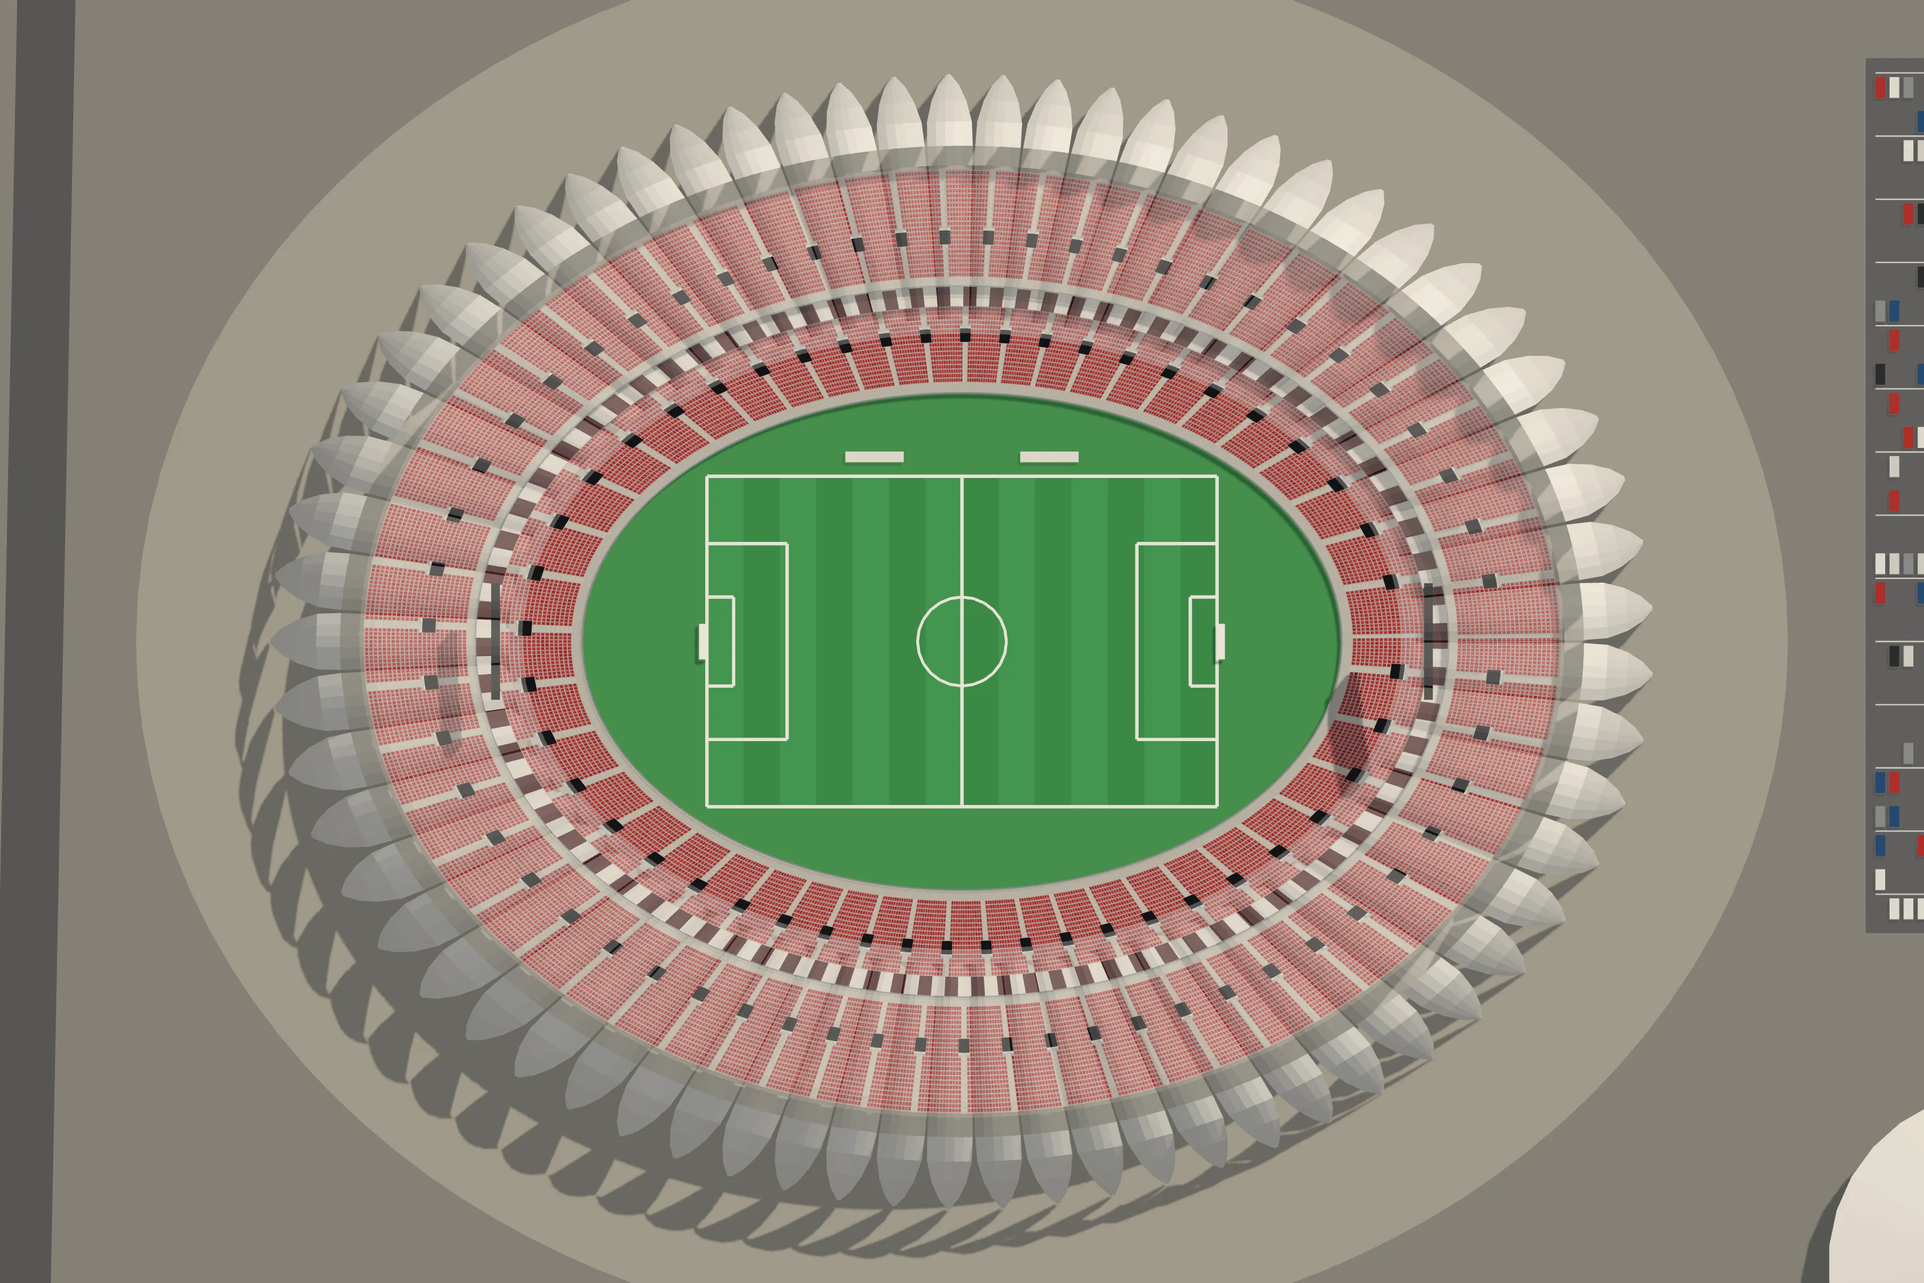
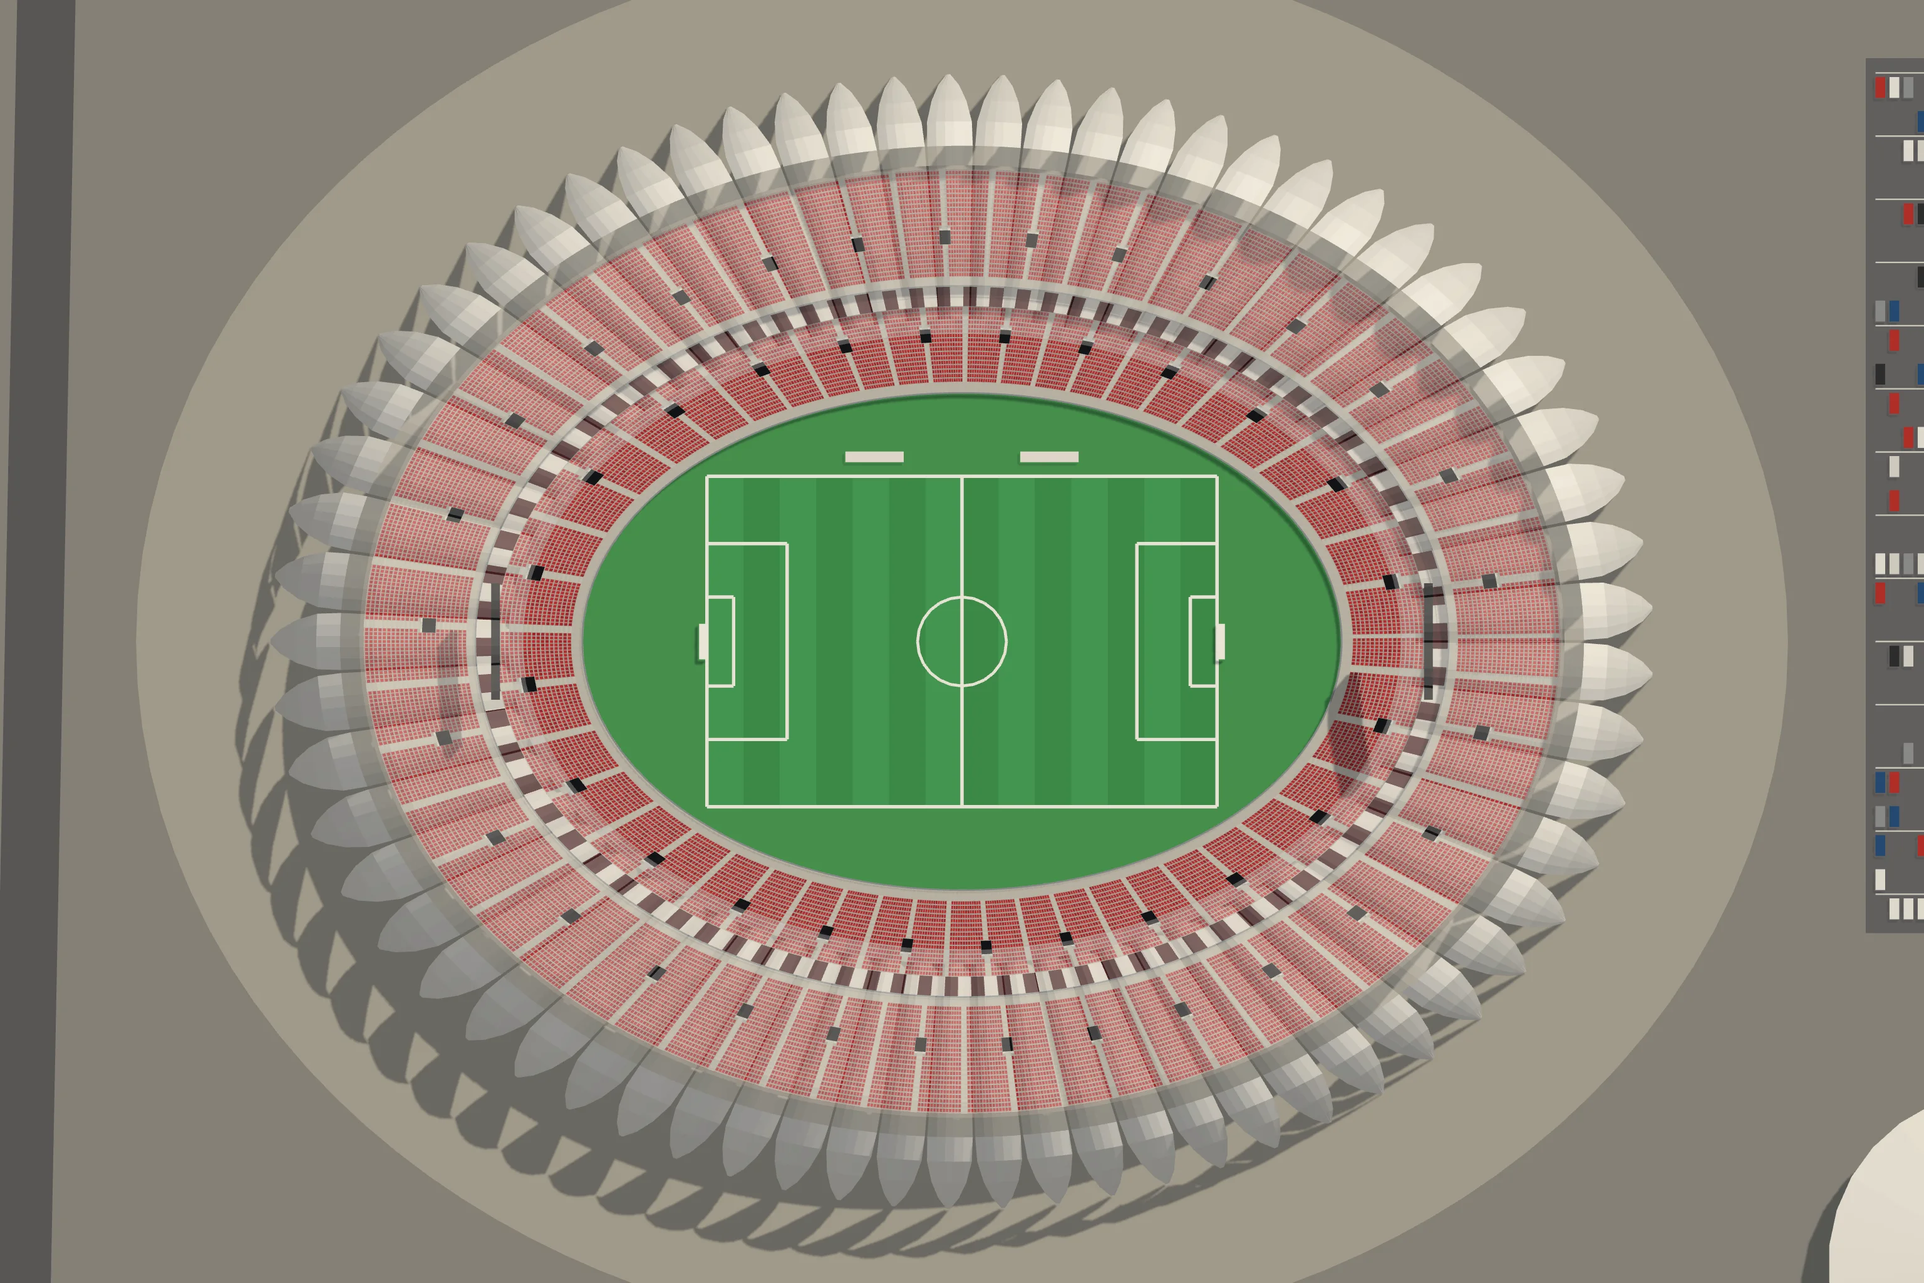
Beira-Rio: bocas de acesso a cada duas divisas de bloco
Claude-Session: https://claude.ai/code/session_019hwwMAyyP7ZAvyq6wYTetr

diff --git a/cenario3d/planta.html b/cenario3d/planta.html
@@ -289,24 +289,24 @@ button:focus-visible, input:focus-visible { outline: 2px solid var(--selecao); o
 
 <script type="module">
 import * as THREE from 'https://cdn.jsdelivr.net/npm/three@0.160.0/build/three.module.min.js';
-import { planoDaCasa, montarCasa, juntarBlocos, lugarDoDecalque, placasDoLote, segmentosDoMuro, carrosDoEstacionamento, portaoDoEstacionamento } from './js/casas3d.js?v=9e0868c0e8';
-import { montarModelos } from './js/modelos3d.js?v=9e0868c0e8';
-import { moldeDaPeca, comTransformador } from './js/props3d.js?v=9e0868c0e8';
-import { ATLAS } from './js/modelos_atlas.js?v=9e0868c0e8';
-import { Construtor, sorteio } from './js/construtor3d.js?v=9e0868c0e8';
-import { gerarProposta, MAPAS, MAPA_DO_PORTE, RUA, LONGE_DO_ESTADIO_M, cisaoDaPraca, VAO_CIDADES_M, PRAIA_A_MAIS } from './js/proposta.js?v=9e0868c0e8';
-import { montarSede, nivelQueCabe } from './js/sede3d.js?v=9e0868c0e8';
-import { onibus as onibusDetalhe, juntar as juntarDetalhe } from './js/detalhe3d.js?v=9e0868c0e8';
-import { montarLoteDeVeraneio, plantaDoLote, festaNoMundo, noMundoDoLote, cenaDaFesta, detalheDaCasaDaFesta } from './js/veraneio3d.js?v=9e0868c0e8';
-import { montarCaravana, cenaDaCaravana } from './js/caravana3d.js?v=9e0868c0e8';
-import { montarEstacao, montarTunel, montarCarro, TREM } from './js/metro3d.js?v=9e0868c0e8';
-import { montarShopping, montarDelegacia, montarPraca, montarIgreja, montarEscola, montarHospital } from './js/equip3d.js?v=9e0868c0e8';
-import { montarEquipAntigo, TIPOS_ANTIGOS } from './js/equip_antigo3d.js?v=9e0868c0e8';
-import { PECAS_PRAIA, montarPecaDaPraia } from './js/praia3d.js?v=9e0868c0e8';
-import { ESPECIES_LP, FLORA_LP, montarArvoreLowpoly, montarAsDez, facesDaArvore, especieLowpolyDe } from './js/arvores_lowpoly.js?v=9e0868c0e8';
-import { plantarMato, montarMato, LONGE_M, DENSIDADE, LADRILHO_M } from './js/mato3d.js?v=9e0868c0e8';
-import { ESTADIOS_JOGO, montarEstadioJogo, glbDoEstadio, cortarEstadio, plantaDoEstadio, modeloDaLotacao, nomeDoLetreiro, nomeComAcento, marcaDoEstadio, BOCAS_DOS_PORTOES, BILHETERIAS_DA_RUA } from './js/estadios3d.js?v=9e0868c0e8';
-import { PECAS_AMBULANTES, montarAmbulante } from './js/ambulantes3d.js?v=9e0868c0e8';
+import { planoDaCasa, montarCasa, juntarBlocos, lugarDoDecalque, placasDoLote, segmentosDoMuro, carrosDoEstacionamento, portaoDoEstacionamento } from './js/casas3d.js?v=926c2e6e57';
+import { montarModelos } from './js/modelos3d.js?v=926c2e6e57';
+import { moldeDaPeca, comTransformador } from './js/props3d.js?v=926c2e6e57';
+import { ATLAS } from './js/modelos_atlas.js?v=926c2e6e57';
+import { Construtor, sorteio } from './js/construtor3d.js?v=926c2e6e57';
+import { gerarProposta, MAPAS, MAPA_DO_PORTE, RUA, LONGE_DO_ESTADIO_M, cisaoDaPraca, VAO_CIDADES_M, PRAIA_A_MAIS } from './js/proposta.js?v=926c2e6e57';
+import { montarSede, nivelQueCabe } from './js/sede3d.js?v=926c2e6e57';
+import { onibus as onibusDetalhe, juntar as juntarDetalhe } from './js/detalhe3d.js?v=926c2e6e57';
+import { montarLoteDeVeraneio, plantaDoLote, festaNoMundo, noMundoDoLote, cenaDaFesta, detalheDaCasaDaFesta } from './js/veraneio3d.js?v=926c2e6e57';
+import { montarCaravana, cenaDaCaravana } from './js/caravana3d.js?v=926c2e6e57';
+import { montarEstacao, montarTunel, montarCarro, TREM } from './js/metro3d.js?v=926c2e6e57';
+import { montarShopping, montarDelegacia, montarPraca, montarIgreja, montarEscola, montarHospital } from './js/equip3d.js?v=926c2e6e57';
+import { montarEquipAntigo, TIPOS_ANTIGOS } from './js/equip_antigo3d.js?v=926c2e6e57';
+import { PECAS_PRAIA, montarPecaDaPraia } from './js/praia3d.js?v=926c2e6e57';
+import { ESPECIES_LP, FLORA_LP, montarArvoreLowpoly, montarAsDez, facesDaArvore, especieLowpolyDe } from './js/arvores_lowpoly.js?v=926c2e6e57';
+import { plantarMato, montarMato, LONGE_M, DENSIDADE, LADRILHO_M } from './js/mato3d.js?v=926c2e6e57';
+import { ESTADIOS_JOGO, montarEstadioJogo, glbDoEstadio, cortarEstadio, plantaDoEstadio, modeloDaLotacao, nomeDoLetreiro, nomeComAcento, marcaDoEstadio, BOCAS_DOS_PORTOES, BILHETERIAS_DA_RUA } from './js/estadios3d.js?v=926c2e6e57';
+import { PECAS_AMBULANTES, montarAmbulante } from './js/ambulantes3d.js?v=926c2e6e57';
 
 const $ = id => document.getElementById(id);
 const aviso = $('aviso');
@@ -323,25 +323,25 @@ function carregarScript(src) {
 }
 window.TO = window.TO || { dados: {} };
 try {
-  await carregarScript('dados/torcidas.js?v=9e0868c0e8');
-  await carregarScript('dados/times.js?v=9e0868c0e8');
-  await carregarScript('dados/cena_estadio.js?v=9e0868c0e8');
-  await carregarScript('dados/cidades.js?v=9e0868c0e8');
-  await carregarScript('dados/estadios.js?v=9e0868c0e8');
-  await carregarScript('dados/escudos.js?v=9e0868c0e8');
+  await carregarScript('dados/torcidas.js?v=926c2e6e57');
+  await carregarScript('dados/times.js?v=926c2e6e57');
+  await carregarScript('dados/cena_estadio.js?v=926c2e6e57');
+  await carregarScript('dados/cidades.js?v=926c2e6e57');
+  await carregarScript('dados/estadios.js?v=926c2e6e57');
+  await carregarScript('dados/escudos.js?v=926c2e6e57');
   /* o manifesto das faixas de verdade (a arte do dono, 29/09/2026): a arquibancada estende a da torcida */
-  await carregarScript('dados/faixas.js?v=9e0868c0e8').catch(() => {});
+  await carregarScript('dados/faixas.js?v=926c2e6e57').catch(() => {});
   /* O DOMÍNIO DOS BAIRROS (o dono, 30/09/2026): as sedes repetidas num
      bairro saem espalhadas (nos dados, na carga) e os bares ganham o
      bairro deles — o mesmo módulo do jogo (js/mundo/dominio.js) */
-  await carregarScript('js/dominio.js?v=9e0868c0e8').catch(() => {});
+  await carregarScript('js/dominio.js?v=926c2e6e57').catch(() => {});
 } catch (e) {
   aviso.textContent = 'A planta da cidade não carregou (' + e.message + '). Recarregue a página.';
   throw e;
 }
 /* os PNG dos escudos, embutidos (o montar.sh gera): sem o arquivo, o
    caminho vai direto pra img/escudos/ */
-await carregarScript('dados/escudos_embutidos.js?v=9e0868c0e8').catch(() => {});
+await carregarScript('dados/escudos_embutidos.js?v=926c2e6e57').catch(() => {});
 const P = TO.dados.plantaEstadio, K = P.CIDADE, M = P.METRO, CALC = K.CALC;
 /* o mapa da vez (o pequeno, o médio ou o grande, montado pra praça
    escolhida): quem monta é usarMapa, lá embaixo */

diff --git a/cenario3d/dados/estadios_cenas.js b/cenario3d/dados/estadios_cenas.js
@@ -1633,7 +1633,7 @@ window.__ESTADIOS = {
    "visitante": 3
   },
   "foto": {
-   "imagem": "img/cenas/estadio_beira_rio.webp?v=a0bbdb8e",
+   "imagem": "img/cenas/estadio_beira_rio.webp?v=8a255ec1",
    "mascara": "384;384;384;384;384;384;384;384;384;384;384;384;384;384;384;384;384;384;384;384;384;384;384;384;384;384;384;384;384;384;384;384;384;384;175,34,175;168,48,168;162,60,162;158,68,158;154,76,154;150,84,150;147,90,147;144,96,144;141,102,141;138,108,138;136,112,136;134,116,134;131,122,131;129,126,129;127,130,127;125,134,125;123,138,123;122,140,122;120,144,120;118,148,118;117,150,117;115,154,115;114,156,114;112,160,112;111,162,111;109,166,109;108,168,108;107,170,107;106,172,106;104,176,104;103,178,103;102,180,102;101,182,101;100,184,100;99,186,99;98,188,98;97,190,97;96,192,96;95,194,95;94,196,94;93,198,93;92,200,92;91,202,91;91,202,91;90,91,22,91,90;89,84,38,84,89;88,80,48,80,88;88,76,56,76,88;87,73,64,73,87;86,71,70,71,86;86,69,74,69,86;85,67,80,67,85;84,66,84,66,84;84,63,90,63,84;83,62,94,62,83;83,61,96,61,83;82,60,100,60,82;82,58,104,58,82;81,58,106,58,81;81,56,110,56,81;80,56,112,56,80;80,54,116,54,80;79,54,118,54,79;79,53,120,53,79;78,53,122,53,78;78,52,124,52,78;77,52,126,52,77;77,51,128,51,77;77,50,130,50,77;76,50,132,50,76;76,49,134,49,76;76,48,136,48,76;75,48,138,48,75;75,48,138,48,75;75,47,140,47,75;75,46,142,46,75;74,47,142,47,74;74,46,144,46,74;74,46,144,46,74;74,45,146,45,74;74,45,146,45,74;73,45,148,45,73;73,45,148,45,73;73,45,148,45,73;73,44,150,44,73;73,44,150,44,73;73,44,150,44,73;73,43,152,43,73;73,43,152,43,73;73,43,152,43,73;72,44,152,44,72;72,44,152,44,72;72,44,152,44,72;72,44,152,44,72;72,44,152,44,72;72,44,152,44,72;72,44,152,44,72;72,44,152,44,72;73,43,152,43,73;73,43,152,43,73;73,43,152,43,73;73,44,150,44,73;73,44,150,44,73;73,44,150,44,73;73,45,148,45,73;73,45,148,45,73;73,45,148,45,73;74,45,146,45,74;74,45,146,45,74;74,46,144,46,74;74,46,144,46,74;74,47,142,47,74;75,46,142,46,75;75,47,140,47,75;75,48,138,48,75;75,48,138,48,75;76,48,136,48,76;76,49,134,49,76;76,50,132,50,76;77,50,130,50,77;77,51,128,51,77;77,52,126,52,77;78,52,124,52,78;78,53,122,53,78;79,53,120,53,79;79,54,118,54,79;80,54,116,54,80;80,56,112,56,80;81,56,110,56,81;81,58,106,58,81;82,58,104,58,82;82,60,100,60,82;83,61,96,61,83;83,62,94,62,83;84,63,90,63,84;84,66,84,66,84;85,67,80,67,85;86,69,74,69,86;86,71,70,71,86;87,73,64,73,87;88,76,56,76,88;88,80,48,80,88;89,84,38,84,89;90,91,22,91,90;91,202,91;91,202,91;92,200,92;93,198,93;94,196,94;95,194,95;96,192,96;97,190,97;98,188,98;99,186,99;100,184,100;101,182,101;102,180,102;103,178,103;104,176,104;106,172,106;107,170,107;108,168,108;109,166,109;111,162,111;112,160,112;114,156,114;115,154,115;117,150,117;118,148,118;120,144,120;122,140,122;123,138,123;125,134,125;127,130,127;129,126,129;131,122,131;134,116,134;136,112,136;138,108,138;141,102,141;144,96,144;147,90,147;150,84,150;154,76,154;158,68,158;162,60,162;168,48,168;175,34,175;384;384;384;384;384;384;384;384;384;384;384;384;384;384;384;384;384;384;384;384;384;384;384;384;384;384;384;384;384;384;384;384;384;384"
   },
   "cena": {
@@ -1753,10 +1753,10 @@ window.__ESTADIOS = {
      "raio": 40,
      "dir": [
       -1,
-      -0.03
+      0.1
      ],
-     "x": 839,
-     "y": 1003
+     "x": 846,
+     "y": 1093
     },
     {
      "id": "portao_visitante",
@@ -1764,11 +1764,11 @@ window.__ESTADIOS = {
      "lado": "visitante",
      "raio": 40,
      "dir": [
-      0.86,
-      -0.5
+      0.92,
+      -0.39
      ],
-     "x": 2072,
-     "y": 713
+     "x": 2134,
+     "y": 774
     }
    ],
    "pmPostos": [

diff --git a/cenario3d/js/jogo2d.js b/cenario3d/js/jogo2d.js
@@ -17,7 +17,7 @@
    cartão da partida cai perto da hora da bola e nada do que conta o
    placar passa na frente dele.
    ========================================================= */
-import { CASCA } from './jogo_casca.js?v=9e0868c0e8';
+import { CASCA } from './jogo_casca.js?v=926c2e6e57';
 
 const carregarScript = src => new Promise((ok, erro) => {
   const s = document.createElement('script');
@@ -31,17 +31,17 @@ async function montarJogo() {
   caixa.innerHTML = CASCA;
   while (caixa.firstChild) document.body.appendChild(caixa.firstChild);
   /* os escudos, as fotos das praças e as bandeiras embutidos (o `IMG()` do jogo procura aqui antes do caminho) */
-  await carregarScript('dados/imagens_jogo.js?v=9e0868c0e8').catch(() => {});
+  await carregarScript('dados/imagens_jogo.js?v=926c2e6e57').catch(() => {});
   /* os estádios low-poly das cenas (ferramentas/estadios/assar.js): antes do jogo, que monta as cenas quando carrega */
-  await carregarScript('dados/estadios_cenas.js?v=9e0868c0e8').catch(() => {});
+  await carregarScript('dados/estadios_cenas.js?v=926c2e6e57').catch(() => {});
   /* sem o rolo do feed: a tela entre os jogos é o portal */
   window.TO = window.TO || {};
   TO.semFeed = true;
-  await carregarScript('js/jogo.js?v=9e0868c0e8');
-  await carregarScript('js/portal.js?v=9e0868c0e8').catch(err => console.error('o portal não carregou:', err));
+  await carregarScript('js/jogo.js?v=926c2e6e57');
+  await carregarScript('js/portal.js?v=926c2e6e57').catch(err => console.error('o portal não carregou:', err));
   /* o boneco das cenas de imagem (os dois níveis afinados, em base64) */
-  if (!TO.dados.bonecoPertoGLB) await carregarScript('dados/boneco_glb.js?v=9e0868c0e8').catch(() => {});
-  await import('./bonecos3_global.js?v=9e0868c0e8').catch(err => console.error('o boneco das cenas não carregou:', err));
+  if (!TO.dados.bonecoPertoGLB) await carregarScript('dados/boneco_glb.js?v=926c2e6e57').catch(() => {});
+  await import('./bonecos3_global.js?v=926c2e6e57').catch(err => console.error('o boneco das cenas não carregou:', err));
   ligar();
 }
 

diff --git a/cenario3d/jogo.html b/cenario3d/jogo.html
@@ -9,16 +9,16 @@
 <link rel="preconnect" href="https://fonts.googleapis.com">
 <link rel="preconnect" href="https://fonts.gstatic.com" crossorigin>
 <link rel="stylesheet" href="https://fonts.googleapis.com/css2?family=Barlow+Semi+Condensed:wght@500;600;700&family=Barlow:wght@400;500;600&family=IBM+Plex+Mono:wght@400;500&display=swap">
-<link rel="stylesheet" href="css/jogo.css?v=9e0868c0e8">
-<link rel="stylesheet" href="css/jogo3d.css?v=9e0868c0e8">
-<link rel="stylesheet" href="css/portal.css?v=9e0868c0e8">
-<link rel="stylesheet" href="css/telas3d.css?v=9e0868c0e8">
+<link rel="stylesheet" href="css/jogo.css?v=926c2e6e57">
+<link rel="stylesheet" href="css/jogo3d.css?v=926c2e6e57">
+<link rel="stylesheet" href="css/portal.css?v=926c2e6e57">
+<link rel="stylesheet" href="css/telas3d.css?v=926c2e6e57">
 <style>
 [hidden] { display: none !important; }
 html, body { height: 100%; margin: 0; }
 </style>
 </head>
 <body class="jogo3d">
-<script type="module" src="js/jogo2d.js?v=9e0868c0e8"></script>
+<script type="module" src="js/jogo2d.js?v=926c2e6e57"></script>
 </body>
 </html>

diff --git a/cenario3d/js/casas3d.js b/cenario3d/js/casas3d.js
@@ -60,10 +60,10 @@
    avançam (`rec`), e o letreiro, a pixação e a falha de reboco do
    bairro vão pro plano dessa parede, não pro da divisa.
    ========================================================= */
-import { Construtor, METRO, mureta, toldo, arSplit, sorteio } from './construtor3d.js?v=9e0868c0e8';
-import { ATLAS } from './modelos_atlas.js?v=9e0868c0e8';
+import { Construtor, METRO, mureta, toldo, arSplit, sorteio } from './construtor3d.js?v=926c2e6e57';
+import { ATLAS } from './modelos_atlas.js?v=926c2e6e57';
 /* as lojas do assalto (lojas3d.js): modelos de lote como os outros */
-import { TIPOS_LOJA, REC_LOJA, placaDaLoja } from './lojas3d.js?v=9e0868c0e8';
+import { TIPOS_LOJA, REC_LOJA, placaDaLoja } from './lojas3d.js?v=926c2e6e57';
 
 /* o arquivo de cada folha, pro bairro montar o material dele */
 export const arquivoDaFolha = folha => ATLAS[folha].arquivo;

diff --git a/cenario3d/js/ambulantes3d.js b/cenario3d/js/ambulantes3d.js
@@ -27,8 +27,8 @@
    que a planta acha o lugar dela na calçada do estádio. `sol`: o meio e
    o raio da copa ([x, z, r]), que o mapa desenha de perto.
    ========================================================= */
-import { Construtor, noMundo, placasNoMundo, sorteio, esfera, unit } from './construtor3d.js?v=9e0868c0e8';
-import { Lugar, barra, tubo, cilindro, bloco, pano, toro, guardaSol, cadeiraPlastica, isopor, banqueta, CORES_SOL } from './praia3d.js?v=9e0868c0e8';
+import { Construtor, noMundo, placasNoMundo, sorteio, esfera, unit } from './construtor3d.js?v=926c2e6e57';
+import { Lugar, barra, tubo, cilindro, bloco, pano, toro, guardaSol, cadeiraPlastica, isopor, banqueta, CORES_SOL } from './praia3d.js?v=926c2e6e57';
 
 const AQUI = Lugar();
 const escolha = (rnd, lista) => lista[Math.floor(rnd() * lista.length) % lista.length];

diff --git a/cenario3d/js/praia3d.js b/cenario3d/js/praia3d.js
@@ -36,8 +36,8 @@
    cadeira e a mesa de plástico) servem também os ambulantes da porta do
    estádio (ambulantes3d.js), na mesma folha.
    ========================================================= */
-import { Construtor, METRO, lerp, sub, soma, esc, unit, pv, noMundo, placasNoMundo, sorteio, varrer, esfera } from './construtor3d.js?v=9e0868c0e8';
-import { montarArvoreLowpoly } from './arvores_lowpoly.js?v=9e0868c0e8';
+import { Construtor, METRO, lerp, sub, soma, esc, unit, pv, noMundo, placasNoMundo, sorteio, varrer, esfera } from './construtor3d.js?v=926c2e6e57';
+import { montarArvoreLowpoly } from './arvores_lowpoly.js?v=926c2e6e57';
 
 const ALTO = [0, 1, 0];
 const escolha = (rnd, lista) => lista[Math.floor(rnd() * lista.length) % lista.length];

diff --git a/cenario3d/js/modelos3d.js b/cenario3d/js/modelos3d.js
@@ -32,8 +32,8 @@
    requadro da janela, toldo, ar-condicionado. O resto é pintura.
    ========================================================= */
 import * as THREE from 'https://cdn.jsdelivr.net/npm/three@0.160.0/build/three.module.min.js';
-import { ATLAS } from './modelos_atlas.js?v=9e0868c0e8';
-import { Construtor, METRO, lerp, sub, soma, esc, pv, pe, unit, recuoPoligono, mureta, toldo, arSplit } from './construtor3d.js?v=9e0868c0e8';
+import { ATLAS } from './modelos_atlas.js?v=926c2e6e57';
+import { Construtor, METRO, lerp, sub, soma, esc, pv, pe, unit, recuoPoligono, mureta, toldo, arSplit } from './construtor3d.js?v=926c2e6e57';
 
 /* =======================================================
    1. A IGREJA MATRIZ

diff --git a/cenario3d/js/props3d.js b/cenario3d/js/props3d.js
@@ -26,8 +26,8 @@
    poste vira uma haste de longe; o resto, que é miúdo, some.
    ========================================================= */
 import * as THREE from 'https://cdn.jsdelivr.net/npm/three@0.160.0/build/three.module.min.js';
-import { ATLAS } from './modelos_atlas.js?v=9e0868c0e8';
-import { Construtor, METRO, lerp } from './construtor3d.js?v=9e0868c0e8';
+import { ATLAS } from './modelos_atlas.js?v=926c2e6e57';
+import { Construtor, METRO, lerp } from './construtor3d.js?v=926c2e6e57';
 
 /* as cores que o vértice dá pro que sai claro na folha */
 const COR_CESTO = ['#6aa33a', '#d2b53a', '#3f82ad', '#8b6a3c', '#b8452f'];

diff --git a/cenario3d/js/mato3d.js b/cenario3d/js/mato3d.js
@@ -19,8 +19,8 @@
 
    Tudo em metros; `noMundo` converte. A mesma semente dá o mesmo mato.
    ========================================================= */
-import { METRO, noMundo, sorteio } from './construtor3d.js?v=9e0868c0e8';
-import { facesDaArvore, especieLowpolyDe } from './arvores_lowpoly.js?v=9e0868c0e8';
+import { METRO, noMundo, sorteio } from './construtor3d.js?v=926c2e6e57';
+import { facesDaArvore, especieLowpolyDe } from './arvores_lowpoly.js?v=926c2e6e57';
 
 /* a área de chão de cada árvore (m²), por lugar */
 export const DENSIDADE = { mata: 70, cerrado: 200, caatinga: 150, sul: 90, praia: 120, cidade: 250 };

diff --git a/cenario3d/js/bonecos3_global.js b/cenario3d/js/bonecos3_global.js
@@ -14,7 +14,7 @@
    DOMContentLoaded: quem usa (a ponte, numa cena aberta pelo jogador)
    chega muito depois.
    ========================================================= */
-import { montar, desenharDeCima, desenharVitrine, limparDeCima, fotoDoTrofeu, fotoDaBriga, fotoDaCena, perdeu, bonecos } from './bonecos3_cena.js?v=9e0868c0e8';
+import { montar, desenharDeCima, desenharVitrine, limparDeCima, fotoDoTrofeu, fotoDaBriga, fotoDaCena, perdeu, bonecos } from './bonecos3_cena.js?v=926c2e6e57';
 
 window.TO = window.TO || {};
 TO.diaJogo = TO.diaJogo || {};

diff --git a/cenario3d/js/bonecos3_cena.js b/cenario3d/js/bonecos3_cena.js
@@ -103,7 +103,7 @@
       numa fase sorteada (quem sai junto não sai no mesmo pé).
    ========================================================= */
 import * as THREE from 'https://cdn.jsdelivr.net/npm/three@0.160.0/build/three.module.min.js';
-import { GLTFLoader, SkeletonUtils } from './GLTFLoader.js?v=9e0868c0e8';
+import { GLTFLoader, SkeletonUtils } from './GLTFLoader.js?v=926c2e6e57';
 
 /* onde o modelo mora, quando não vem embutido em base64: o detalhado
    (o do Blender) e os dois níveis afinados dele (ferramentas/afinar_boneco.mjs) */
